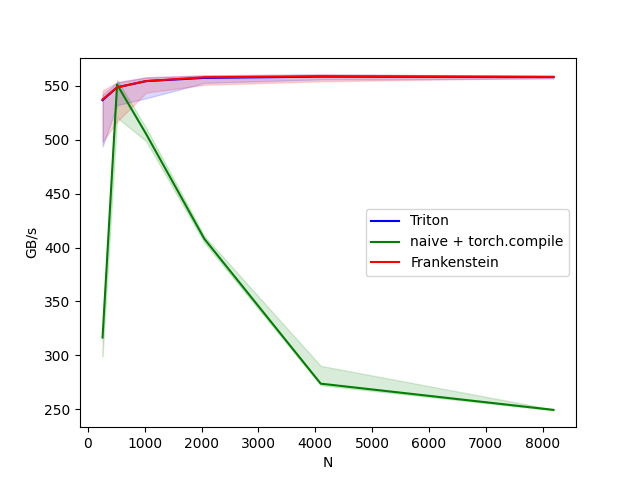
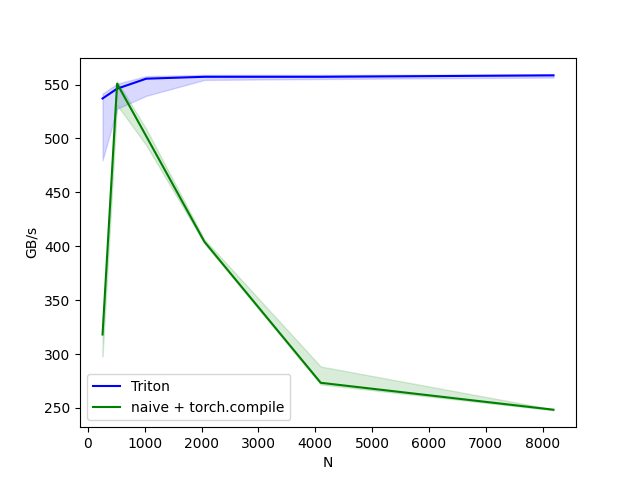
abandoned frankenstein idea. realized i just gotta accumulate alpha smarter

diff --git a/kernels/benchmarks/results.html b/kernels/benchmarks/results.html
@@ -1,3 +1,6 @@
 <html><body>
 <image src="resid_fwd_fp16.png"/>
 <image src="resid_fwd_fp32.png"/>
+<image src="resid_bwd_fp16.png"/>
+<image src="resid_bwd_fp32.png"/>
+</body></html>

diff --git a/kernels/resid.py b/kernels/resid.py
@@ -400,23 +400,20 @@ def test_resid_bwd(M, N, dtype, device=DEVICE, atol=5e-2, rtol=0):
 def previous_power_two(n):
     return int(math.log(n, 2))
 
-# =============================================================================
-# Benchmark Configurations (including Frankenstein op)
-# -----------------------------------------------------------------------------
 configs = []
 for mode in ["fwd", "bwd"]:
     for dtype_bytes in [2, 4]:
         configs.append(
             triton.testing.Benchmark(
                 x_names=['N'],
-                x_vals=[2 ** i for i in range(8, previous_power_two(sram_per_sm // dtype_bytes))],
+                x_vals=[2 ** i for i in range(8, previous_power_two(sram_per_sm // dtype_bytes))], 
                 line_arg='provider',
-                line_vals=['triton', 'naive', 'frankenstein'],
-                line_names=['Triton', 'naive + torch.compile', 'Frankenstein'],
-                styles=[('blue', '-'), ('green', '-'), ('red', '-')],
+                line_vals=['triton', 'naive'],
+                line_names=['Triton', 'naive + torch.compile'],
+                styles=[('blue', '-'), ('green', '-')],
                 ylabel='GB/s',
                 plot_name=f'resid_{mode}_fp{8*dtype_bytes}',
-                args={"mode": mode, "dtype_bytes": dtype_bytes},
+                args={"mode": mode, "dtype_bytes": dtype_bytes}, 
             ))
 @triton.testing.perf_report(configs)
 def benchmark(N, provider, mode, dtype_bytes, device=DEVICE):
@@ -434,8 +431,6 @@ def benchmark(N, provider, mode, dtype_bytes, device=DEVICE):
         fn = lambda: resid_fwd_triton(h, h_eigen, alpha)
     if provider == "naive":
         fn = lambda: resid_fwd_naive(h, h_eigen, alpha)
-    if provider == "frankenstein":
-        fn = lambda: resid_frankenstein(h, h_eigen, alpha)
     elif mode == "bwd":
         y = fn()
         dLdy = torch.randn_like(y)
@@ -447,76 +442,9 @@ def benchmark(N, provider, mode, dtype_bytes, device=DEVICE):
     return gbps(ms), gbps(max_ms), gbps(min_ms)
 
 
-# =============================================================================
-# Frankenstein Residual Custom Op
-# -----------------------------------------------------------------------------
-# Uses Triton custom op for forward and naive+torch.compile for backward.
-# =============================================================================
-class ResidFrankensteinOp(torch.autograd.Function):
-    @staticmethod
-    def forward(ctx, h, h_eigen, alpha):
-        # Use Triton kernel for forward pass
-        out = resid_fwd_triton(h, h_eigen, alpha)
-        ctx.save_for_backward(h, h_eigen, alpha, out)
-        return out
-
-    @staticmethod
-    def backward(ctx, grad_output):
-        h, h_eigen, alpha, out = ctx.saved_tensors
-        # Use the naive backward pass (compiled via torch.compile) for gradients
-        grad_h, grad_h_eigen, grad_alpha = resid_bwd_naive(h, h_eigen, alpha, grad_output)
-        return grad_h, grad_h_eigen, grad_alpha
-
-def resid_frankenstein(h, h_eigen, alpha):
-    """Wrapper for the Frankenstein residual operation"""
-    return ResidFrankensteinOp.apply(h, h_eigen, alpha)
-
-
-# =============================================================================
-# Frankenstein Operation Tests
-# -----------------------------------------------------------------------------
-# A lightweight unit-test for the Frankenstein op that:
-# 1. Compares its forward pass against the naive op.
-# 2. Runs a backward pass to ensure gradients propagate.
-# 3. Checks that the computed gradients match the expected values from the naive backward.
-# =============================================================================
-def test_resid_frankenstein(M, N, dtype, device=DEVICE, atol=1e-3, rtol=1e-3):
-    # Create data with gradients enabled
-    h = torch.randn((M, N), dtype=dtype, device=device, requires_grad=True)
-    h_eigen = torch.randn((M, N), dtype=dtype, device=device, requires_grad=True)
-    alpha = torch.randn(N, dtype=dtype, device=device, requires_grad=True)
-
-    # Clone inputs for backward gradient verification
-    h_clone = h.detach().clone().requires_grad_(True)
-    h_eigen_clone = h_eigen.detach().clone().requires_grad_(True)
-    alpha_clone = alpha.detach().clone().requires_grad_(True)
-
-    # Forward pass: Frankenstein op vs. naive op
-    out_frank = resid_frankenstein(h, h_eigen, alpha)
-    out_naive = resid_fwd_naive(h, h_eigen, alpha)
-    torch.testing.assert_close(out_frank, out_naive, atol=atol, rtol=rtol)
-
-    # Backward pass: trigger gradient computation for Frankenstein op
-    grad_output = torch.randn((M, N), dtype=dtype, device=device)
-    out_frank.backward(grad_output)
-
-    # Compute expected gradients using the naive backward function on cloned inputs
-    grad_h_expected, grad_h_eigen_expected, grad_alpha_expected = resid_bwd_naive(
-        h_clone, h_eigen_clone, alpha_clone, grad_output
-    )
-
-    # Compare gradients from Frankenstein op backward with expected gradients
-    torch.testing.assert_close(h.grad, grad_h_expected, atol=atol, rtol=rtol)
-    torch.testing.assert_close(h_eigen.grad, grad_h_eigen_expected, atol=atol, rtol=rtol)
-    torch.testing.assert_close(alpha.grad, grad_alpha_expected, atol=atol, rtol=rtol)
-
-    print(f"✓ passed Frankenstein op test (M={M}, N={N}, dtype={dtype})")
-
 
 if __name__ == "__main__":
-    # ===============================
-    # Unit Tests: Forward & Backward Ops
-    # ===============================
+    # always run unit-tests
     test_resid_fwd(64, 64, torch.float32)
     test_resid_fwd(64, 64, torch.float16)
     test_resid_fwd(2048, 768, torch.float32)
@@ -524,22 +452,15 @@ if __name__ == "__main__":
     test_resid_fwd(2048, 8192, torch.float32)
     test_resid_fwd(2048, 8192, torch.float16)
 
+    # Run backward tests
     test_resid_bwd(64, 64, torch.float32)
     test_resid_bwd(64, 64, torch.float16)
     test_resid_bwd(2048, 768, torch.float32)
     test_resid_bwd(2048, 768, torch.float16)
     test_resid_bwd(2048, 8192, torch.float32)
     test_resid_bwd(2048, 8192, torch.float16)
-    
-    # ===============================
-    # Unit Test: Frankenstein Op
-    # ===============================
-    test_resid_frankenstein(64, 64, torch.float32)
-    test_resid_frankenstein(64, 64, torch.float16)
-    test_resid_frankenstein(2048, 768, torch.float32)
-    test_resid_frankenstein(2048, 768, torch.float16)
 
-    # Only run benchmark if explicitly requested.
+    # Only run benchmark if explicitly requested
     import sys
     if len(sys.argv) > 1 and sys.argv[1] == "--benchmark":
         benchmark.run(save_path='./benchmarks/', print_data=False)
